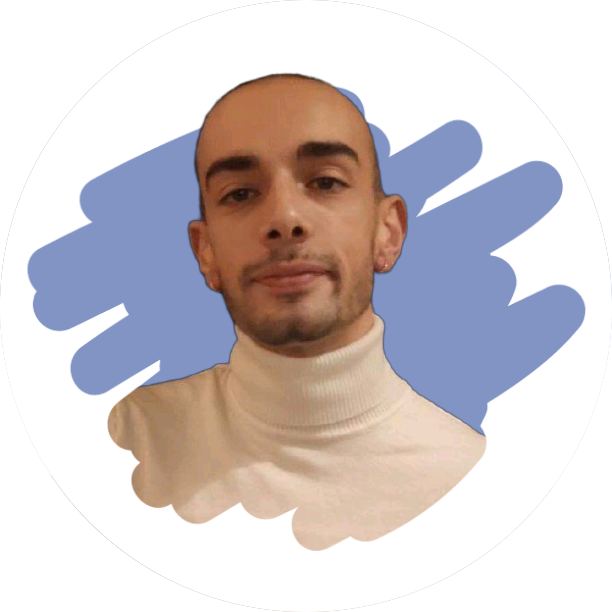
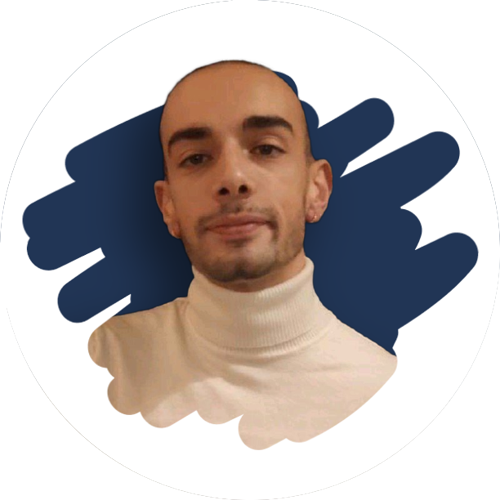
accueil completement aware

Changed region(s): [[0.54, 0.12, 0.96, 0.72], [0.03, 0.21, 0.39, 0.66]]

diff --git a/style/index.css b/style/index.css
@@ -1,11 +1,194 @@
-.div-img{
-    width:100%;
-    height:100%;
-    display:flex;
-    justify-content:center;
-    align-items:center;
 
+.div-img{
+    display:flex;
+    flex-direction: column;
+    align-items: center;
+    margin-top: 3rem;
 }
 .img-profil{
     width:60%;
+    background: rgba(255, 255, 255, 0.2);
+    border-radius: 50%;
+    box-shadow: 0 4px 30px rgba(0, 0, 0, 0.1);
+    backdrop-filter: blur(5px);
+    z-index: -99;
+}
+
+.text-presentation{
+    font-size: 1rem;
+    white-space: normal;
+    font-family: 'Josefin Sans', sans-serif;
+    text-align: center;
+    margin: 2rem 2rem;
+    letter-spacing: 2px;
+    background: rgba(255, 255, 255, 0.2);
+    border-radius: 20px;
+    box-shadow: 0 4px 30px rgba(0, 0, 0, 0.1);
+    backdrop-filter: blur(5px);
+    padding: 1rem 1.5rem;
+    font-size: 1.25rem;
+}
+
+.github{
+    position: fixed;
+    top: 10px;
+    right: 5px;
+    transition: .6s;
+    z-index: 99;
+}
+.github:hover{
+    fill: black;
+}
+.linkedin{
+    position: fixed;
+    top: 60px;
+    right: 5px;
+    transition: .6s;
+    z-index: 99;
+}
+.linkedin:hover{
+    fill: #0A66C2;
+}
+
+.title-hardskills{
+    font-family: 'Manrope', sans-serif;
+    text-align: center;
+    color: #213555;
+    letter-spacing: 2px;
+}
+
+.container {
+    display: grid;
+    width: 100%;
+    height: 100%;
+    grid-template-areas: "PHP Symfony MySQL"
+    "Bootstrap SCSS Twig"
+    "JavaScript GIT HTML";
+    grid-template-columns: 1fr 1fr 1fr;
+    grid-template-rows: 1fr 1fr 1fr;
+    gap: 1em;
+    padding: 1em 1em;
+    z-index: -99;
+  }
+  
+  
+  .PHP {
+    grid-area: PHP;
+    
+    
+  }
+  .Symfony {
+    grid-area: Symfony;
+   
+  }
+  .MySQL {
+    grid-area: MySQL;
+    
+  }
+  .Bootstrap {
+    grid-area: Bootstrap;
+    
+  }
+  .SCSS {
+    grid-area: SCSS;
+    
+  }
+  .Twig {
+    grid-area: Twig;
+    
+  }
+  .JavaScript {
+    grid-area: JavaScript;
+    
+  }
+  .GIT {
+    grid-area: GIT;
+    
+  }
+  .HTML {
+    grid-area: HTML;
+    
+  }
+
+  .glass{
+    background: rgba(255, 255, 255, 0.2);
+    border-radius: 10px;
+    box-shadow: 0 4px 30px rgba(0, 0, 0, 0.1);
+    backdrop-filter: blur(5px);
+    display: flex;
+    align-items: center;
+    justify-content: center;
+    z-index: -99;
+  }
+
+  .title-softskills{
+    font-family: 'Manrope', sans-serif;
+    text-align: center;
+    color: #213555;
+    letter-spacing: 2px;
+    margin-top: 5rem;
+  }
+
+  .softskills{
+    display: flex;
+    flex-direction: column;
+    text-align: center;
+    margin: 2rem 2rem 10rem 2rem;
+    gap: 2rem;
+    z-index: -1000;
+    
+  }
+  .soft{
+    font-family: 'Josefin Sans', sans-serif;
+    font-size: 1.25rem;
+    font-weight: 500;
+    letter-spacing: 2px;
+    background: rgba(255, 255, 255, 0.2);
+    border-radius: 20px;
+    box-shadow: 0 4px 30px rgba(0, 0, 0, 0.1);
+    backdrop-filter: blur(5px);
+    padding: 1.5rem 1.5rem;
+    
+  }
+  
+
+  /* MEDIA QUERIES */
+  @media screen and (min-width:1000px) {
+    .github{
+        top: 30px;
+        right: 10px;
+        width: 50px;
+        height: 50px;
+    }
+    .linkedin{
+        top: 30px;
+        right: 70px;
+        width: 50px;
+        height: 50px;
+    }
+    .main-title{
+        margin-top: 6rem;
+    }
+    .img-profil{
+        width: 20%;
+        margin-top: 5rem;
+    }
+    .div-img{
+        flex-direction: row;
+        margin: 4em 10rem;
+    }
+    .text-presentation{
+        padding: 2rem 2rem;
+    }
+    .container{
+        margin: auto;
+        padding: 1rem 10rem;
+    }
+    .softskills{
+        display: grid; /* Définit la rangée comme une grille */
+  grid-template-columns: repeat(4, 1fr); /* Crée 4 colonnes de largeur égale */
+  gap: 10px; /* Ajoute un espacement entre les objets */
+  align-items: stretch;
+    }
+    
 }

diff --git a/style/navbar.css b/style/navbar.css
@@ -10,10 +10,11 @@
     box-shadow: 0 4px 30px rgba(0, 0, 0, 0.1);
     backdrop-filter: blur(20px);
     font-family: 'Poppins', sans-serif;
+    z-index: 99;
 }
 @media screen and (min-width: 1000px) {
     .nav{
-        top: 0;
+        top: 20px;
         width: 50%;
         left: 25%;
         margin: 0;
@@ -37,8 +38,8 @@
 }
 
 .a2{
-    box-shadow: inset 0 0 0 0 #8294C4;
-    color:#8294C4 ;
+    box-shadow: inset 0 0 0 0 #213555;
+    color:#213555 ;
     border-radius: 30px;
 	padding: 1rem 1.5rem;
 	margin: 0 -1rem; 
@@ -49,5 +50,5 @@
 
 .a2:hover {
     color: #fff;
-    box-shadow: inset 200px 0 0 0 #8294C4;
+    box-shadow: inset 200px 0 0 0 #213555;
   }

diff --git a/style/style.css b/style/style.css
@@ -1,5 +1,3 @@
-@import url('https://fonts.googleapis.com/css2?family=Josefin+Slab&family=Poppins:wght@100;600&family=Sora:wght@200&display=swap');
-
-@import "index.css";
+@import url('https://fonts.googleapis.com/css2?family=Josefin+Sans:wght@300&family=Manrope&family=Poppins:wght@100;600&display=swap');@import "index.css";
 @import "navbar.css";
 @import "body.css";

diff --git a/style/body.css b/style/body.css
@@ -3,3 +3,9 @@
     padding: 0;
     box-sizing: border-box;
 }
+
+body{
+    background-image: url(/images/background.png);
+    background-repeat: no-repeat;
+    background-size: cover;
+}

diff --git a/templates/index.php b/templates/index.php
@@ -9,9 +9,82 @@
 </head>
 
 <body>
+    <a href="https://github.com/MaxenceCodeFR" target="_blank">
+        <svg class="github" xmlns="http://www.w3.org/2000/svg" width="40" height="40" fill="#7a97c5" class="bi bi-github" viewBox="0 0 16 16">
+            <path d="M8 0C3.58 0 0 3.58 0 8c0 3.54 2.29 6.53 5.47 7.59.4.07.55-.17.55-.38 0-.19-.01-.82-.01-1.49-2.01.37-2.53-.49-2.69-.94-.09-.23-.48-.94-.82-1.13-.28-.15-.68-.52-.01-.53.63-.01 1.08.58 1.23.82.72 1.21 1.87.87 2.33.66.07-.52.28-.87.51-1.07-1.78-.2-3.64-.89-3.64-3.95 0-.87.31-1.59.82-2.15-.08-.2-.36-1.02.08-2.12 0 0 .67-.21 2.2.82.64-.18 1.32-.27 2-.27.68 0 1.36.09 2 .27 1.53-1.04 2.2-.82 2.2-.82.44 1.1.16 1.92.08 2.12.51.56.82 1.27.82 2.15 0 3.07-1.87 3.75-3.65 3.95.29.25.54.73.54 1.48 0 1.07-.01 1.93-.01 2.2 0 .21.15.46.55.38A8.012 8.012 0 0 0 16 8c0-4.42-3.58-8-8-8z"/>
+        </svg>
+    </a>
+    <a href="https://www.linkedin.com/in/maxence-hattabi/" target="_blank">
+        <svg class="linkedin" xmlns="http://www.w3.org/2000/svg" width="40" height="40" fill="#213555" class="bi bi-linkedin" viewBox="0 0 16 16">
+            <path d="M0 1.146C0 .513.526 0 1.175 0h13.65C15.474 0 16 .513 16 1.146v13.708c0 .633-.526 1.146-1.175 1.146H1.175C.526 16 0 15.487 0 14.854V1.146zm4.943 12.248V6.169H2.542v7.225h2.401zm-1.2-8.212c.837 0 1.358-.554 1.358-1.248-.015-.709-.52-1.248-1.342-1.248-.822 0-1.359.54-1.359 1.248 0 .694.521 1.248 1.327 1.248h.016zm4.908 8.212V9.359c0-.216.016-.432.08-.586.173-.431.568-.878 1.232-.878.869 0 1.216.662 1.216 1.634v3.865h2.401V9.25c0-2.22-1.184-3.252-2.764-3.252-1.274 0-1.845.7-2.165 1.193v.025h-.016a5.54 5.54 0 0 1 .016-.025V6.169h-2.4c.03.678 0 7.225 0 7.225h2.4z"/>
+        </svg>
+    </a>
     <?php include "navbar.php" ?>
     <div class="div-img">
         <img class="img-profil" src="/images/profil.png" alt="">
-    </div>
+        <section class="text-presentation">
+            <p>
+            </p>
+        </section>
+    </div> 
     
+    <h2 class="title-hardskills"> Compétences </h2>
+<div class="container">
+    <div class="PHP glass"><svg xmlns="http://www.w3.org/2000/svg" height="70" width="110"><defs><clipPath id="A"><path d="M11.52 162C11.52 81.677 135.307 16.56 288 16.56S564.48 81.677 564.48 162 440.693 307.44 288 307.44 11.52 242.322 11.52 162"/></clipPath><radialGradient cx="0" cy="0" fx="0" fy="0" gradientTransform="matrix(363.05789,0,0,-363.05789,177.52002,256.30713)" gradientUnits="userSpaceOnUse" id="B" r="1" spreadMethod="pad"><stop offset="0" stop-color="#aeb2d5"/><stop offset=".3" stop-color="#aeb2d5"/><stop offset=".75" stop-color="#484c89"/><stop offset="1" stop-color="#484c89"/></radialGradient><clipPath id="C"><path d="M0 324h576V0H0v324z"/></clipPath><clipPath id="D"><path d="M0 324h576V0H0v324z"/></clipPath></defs><g transform="matrix(.164883 0 0 -.162632 11.737077 58.329876)"><g clip-path="url(#A)"><path d="M11.52 162C11.52 81.677 135.307 16.56 288 16.56S564.48 81.677 564.48 162 440.693 307.44 288 307.44 11.52 242.322 11.52 162" fill="url(#B)"/></g><g clip-path="url(#C)"><path d="M288 27.36c146.73 0 265.68 60.28 265.68 134.64S434.73 296.64 288 296.64 22.32 236.36 22.32 162 141.27 27.36 288 27.36" fill="#777bb3"/></g><g clip-path="url(#D)"><path d="M161.734 145.307c12.065 0 21.072 2.225 26.77 6.61 5.638 4.34 9.532 11.862 11.573 22.353 1.903 9.806 1.178 16.653-2.154 20.348-3.407 3.774-10.773 5.688-21.893 5.688h-19.28l-10.69-55h15.673zM98.67 77.557c-.895 0-1.745.4-2.314 1.092a3 3 0 0 0-.63 2.48l28.328 145.75a3 3 0 0 0 2.945 2.427h61.054c19.188 0 33.47-5.2 42.447-15.487 9.025-10.33 11.812-24.772 8.283-42.92-1.436-7.394-3.906-14.26-7.34-20.41-3.44-6.155-7.984-11.85-13.51-16.93-6.616-6.192-14.104-10.682-22.236-13.324-8.003-2.607-18.28-3.93-30.548-3.93h-24.722l-7.06-36.322a3 3 0 0 0-2.944-2.428H98.67z"/><path d="M159.224 197.307h16.808c13.42 0 18.083-2.945 19.667-4.7 2.628-2.914 3.124-9.058 1.435-17.767-1.898-9.75-5.416-16.663-10.458-20.545-5.162-3.974-13.554-5.988-24.94-5.988H149.7l9.523 49zm28.83 35H127a6 6 0 0 1-5.889-4.855L92.783 81.7a6 6 0 0 1 5.889-7.144h31.75a6 6 0 0 1 5.89 4.855l6.588 33.895h22.25c12.582 0 23.174 1.372 31.48 4.077 8.54 2.775 16.4 7.48 23.354 13.984 5.752 5.292 10.5 11.232 14.08 17.657s6.17 13.594 7.668 21.302c3.715 19.104.697 34.402-8.97 45.466-9.572 10.958-24.614 16.514-44.706 16.514m-45.633-90h19.313c12.8 0 22.336 2.41 28.6 7.234s10.492 12.875 12.688 24.157c2.1 10.832 1.144 18.476-2.87 22.93s-12.06 6.68-24.12 6.68h-21.754l-11.856-61m45.633 84c18.367 0 31.766-4.82 40.188-14.46s10.957-23.098 7.597-40.375c-1.383-7.117-3.722-13.624-7.015-19.52s-7.602-11.293-12.922-16.184c-6.34-5.933-13.383-10.16-21.133-12.68-7.75-2.525-17.62-3.782-29.62-3.782h-27.196l-7.53-38.75h-31.75L127 226.307h61.055" fill="#fff"/><path d="M311.583 116.307c-.896 0-1.745.4-2.314 1.092s-.802 1.6-.63 2.48l12.53 64.49c1.192 6.133.898 10.535-.827 12.395-1.056 1.137-4.228 3.044-13.607 3.044h-22.702l-15.755-81.072a3 3 0 0 0-2.945-2.428h-31.5a3 3 0 0 0-2.945 3.572l28.328 145.75a3 3 0 0 0 2.945 2.427h31.5a3 3 0 0 0 2.945-3.572l-6.836-35.178h24.422c18.605 0 31.22-3.28 38.57-10.028 7.5-6.884 9.827-17.89 6.947-32.72l-13.18-67.825a3 3 0 0 0-2.945-2.428h-32z"/><path d="M293.66 271.057h-31.5a6 6 0 0 1-5.89-4.855l-28.328-145.75a6 6 0 0 1 5.89-7.144h31.5a6 6 0 0 1 5.89 4.855l15.283 78.645h20.23c9.363 0 11.328-2 11.407-2.086.568-.61 1.315-3.44.082-9.78l-12.53-64.49a6 6 0 0 1 5.89-7.144h32a6 6 0 0 1 5.89 4.855l13.18 67.825c3.093 15.92.447 27.864-7.86 35.5-7.928 7.28-21.208 10.82-40.6 10.82h-20.784l6.143 31.605a6 6 0 0 1-5.89 7.145m0-6l-7.53-38.75h28.062c17.657 0 29.836-3.082 36.54-9.238s8.71-16.14 6.032-29.938l-13.18-67.824h-32l12.53 64.488c1.426 7.336.902 12.34-1.574 15.008s-7.746 4.004-15.805 4.004H281.56l-16.226-83.5h-31.5l28.328 145.75h31.5" fill="#fff"/><path d="M409.55 145.307c12.065 0 21.072 2.225 26.77 6.61 5.638 4.34 9.532 11.86 11.574 22.353 1.903 9.806 1.178 16.653-2.155 20.348-3.407 3.774-10.773 5.688-21.893 5.688h-19.28l-10.69-55h15.673zm-63.062-67.75c-.895 0-1.745.4-2.314 1.092a3 3 0 0 0-.631 2.48l28.328 145.75a3 3 0 0 0 2.946 2.427h61.053c19.19 0 33.47-5.2 42.448-15.487 9.025-10.33 11.81-24.77 8.283-42.92-1.438-7.394-3.907-14.26-7.342-20.41-3.44-6.155-7.984-11.85-13.51-16.93-6.616-6.192-14.104-10.682-22.236-13.324-8.003-2.607-18.28-3.93-30.548-3.93H388.24l-7.057-36.322a3 3 0 0 0-2.946-2.428h-31.75z"/><path d="M407.04 197.307h16.808c13.42 0 18.083-2.945 19.667-4.7 2.63-2.914 3.125-9.058 1.435-17.766-1.898-9.75-5.417-16.664-10.458-20.546-5.162-3.974-13.554-5.988-24.94-5.988h-12.033l9.522 49zm28.83 35h-61.054a6 6 0 0 1-5.889-4.855L340.6 81.7a6 6 0 0 1 5.889-7.144h31.75a6 6 0 0 1 5.89 4.855l6.587 33.895h22.25c12.582 0 23.174 1.372 31.48 4.077 8.54 2.775 16.4 7.48 23.356 13.986 5.752 5.29 10.488 11.23 14.078 17.655s6.17 13.594 7.668 21.302c3.715 19.105.697 34.403-8.97 45.467-9.572 10.957-24.613 16.513-44.706 16.513m-45.632-90h19.312c12.8 0 22.336 2.41 28.6 7.234s10.492 12.875 12.688 24.157c2.102 10.832 1.145 18.476-2.87 22.93s-12.06 6.68-24.12 6.68h-21.754l-11.855-61m45.632 84c18.367 0 31.766-4.82 40.188-14.46s10.957-23.098 7.597-40.375c-1.383-7.117-3.722-13.624-7.015-19.52s-7.602-11.293-12.922-16.184c-6.34-5.933-13.383-10.16-21.133-12.68-7.75-2.525-17.62-3.782-29.62-3.782h-27.196l-7.53-38.75h-31.75l28.328 145.75h61.054" fill="#fff"/></g></g></svg></div>
+    <div class="Symfony glass"><svg xmlns="http://www.w3.org/2000/svg" width="65" height="70"><g transform="matrix(2.409464 0 0 2.409464 -17.555509 -34.096333)"><circle r="13.281" cy="27.432" cx="20.567" fill="#1a171b"/><path d="M26.373 19.065c-1.35.047-2.527.79-3.403 1.82-.97 1.128-1.616 2.465-2.082 3.83-.832-.682-1.474-1.565-2.8-1.95a3.43 3.43 0 0 0-3.113.569c-.472.353-.798.886-.952 1.387-.4 1.303.42 2.462.794 2.878l.816.874c.168.17.573.62.375 1.26-.214.697-1.055 1.15-1.917.883-.385-.117-.938-.404-.814-.808.05-.165.17-.29.233-.432.058-.123.086-.215.104-.27.158-.514-.058-1.183-.608-1.353-.514-.158-1.04-.033-1.244.63-.23.752.128 2.116 2.055 2.7 2.258.694 4.167-.536 4.438-2.14.17-1.004-.283-1.75-1.113-2.7l-.677-.748c-.4-.4-.55-1.108-.126-1.644.358-.453.868-.646 1.703-.42 1.22.33 1.762 1.177 2.67 1.86-.374 1.228-.62 2.46-.84 3.566l-.135.824c-.648 3.4-1.143 5.267-2.43 6.338-.26.184-.63.46-1.188.48-.293.01-.387-.192-.39-.28-.007-.205.166-.3.28-.392.172-.094.432-.25.414-.747-.02-.588-.506-1.1-1.21-1.075-.528.018-1.332.515-1.302 1.424.032.94.907 1.643 2.227 1.598.705-.024 2.28-.31 3.833-2.157 1.807-2.116 2.312-4.54 2.693-6.316l.424-2.344.762.054c2.25.047 3.376-1.118 3.393-1.966.01-.513-.337-1.018-.824-1.007-.35.01-.787.242-.892.724-.103.473.716.9.076 1.314-.455.294-1.27.502-2.418.333l.21-1.154c.426-2.188.95-4.88 2.945-4.944.145-.007.677.007.69.358.004.117-.025.147-.163.416-.14.2-.193.388-.186.593.02.56.444.926 1.058.904.823-.027 1.06-.827 1.046-1.24-.033-.966-1.052-1.577-2.4-1.532z" fill="#fff"/></g></svg></div>
+    <div class="MySQL glass"><svg xmlns="http://www.w3.org/2000/svg" width="100" height="100" viewBox="0 0 9.252 4.626"><g transform="matrix(.037376 0 0 .037376 1.069994 -1.319339)" fill-rule="evenodd"><path d="M8.504 128.215h5.8v-22.977l9.058 20.033c1.026 2.408 2.5 3.3 5.354 3.3s4.24-.893 5.3-3.3l9.013-20.033v22.977h5.845v-22.977c0-2.23-.893-3.303-2.767-3.883-4.417-1.338-7.362-.178-8.7 2.81l-8.878 19.81-8.567-19.81c-1.294-2.988-4.284-4.148-8.745-2.81-1.83.58-2.722 1.652-2.722 3.883l-.001 22.977zm45.198-18.694h5.845v12.627c-.044.713.223 2.32 3.4 2.363 1.65.045 12.582 0 12.67 0v-15.08h5.845v20.658c0 5.086-6.3 6.2-9.236 6.246h-18.38v-3.88h18.427c3.748-.402 3.302-2.275 3.302-2.9v-1.518h-12.36c-5.756-.045-9.46-2.588-9.503-5.488v-13.03zm125.374-14.635c-3.568-.09-6.336.268-8.656 1.25-.668.27-1.74.27-1.828 1.116.357.355.4.936.713 1.428.535.893 1.473 2.096 2.32 2.72.938.715 1.875 1.428 2.855 2.053 1.74 1.07 3.703 1.695 5.398 2.766.982.625 1.963 1.428 2.945 2.098.5.357.803.938 1.428 1.16v-.135c-.312-.4-.402-.98-.713-1.428-.447-.445-.893-.848-1.34-1.293-1.293-1.74-2.9-3.258-4.64-4.506-1.428-.982-4.55-2.32-5.13-3.97l-.088-.09c.98-.09 2.14-.447 3.078-.715 1.518-.4 2.9-.312 4.46-.713.715-.18 1.428-.402 2.143-.625v-.4c-.803-.803-1.383-1.874-2.23-2.632-2.275-1.963-4.775-3.882-7.363-5.488-1.383-.892-3.168-1.473-4.64-2.23-.537-.268-1.428-.402-1.74-.848-.805-.98-1.25-2.275-1.83-3.436-1.293-2.454-2.543-5.175-3.658-7.763-.803-1.74-1.295-3.48-2.275-5.086-4.596-7.585-9.594-12.18-17.268-16.687-1.65-.937-3.613-1.34-5.7-1.83l-3.346-.18c-.715-.312-1.428-1.16-2.053-1.562-2.543-1.606-9.102-5.086-10.977-.49-1.205 2.9 1.785 5.755 2.8 7.228.76 1.026 1.74 2.186 2.277 3.346.3.758.4 1.562.713 2.365.713 1.963 1.383 4.15 2.32 5.98.5.937 1.025 1.92 1.65 2.767.357.49.982.714 1.115 1.517-.625.893-.668 2.23-1.025 3.347-1.607 5.042-.982 11.288 1.293 14.99.715 1.115 2.4 3.57 4.686 2.632 2.008-.803 1.56-3.346 2.14-5.577.135-.535.045-.892.312-1.25v.09l1.83 3.703c1.383 2.186 3.793 4.462 5.8 5.98 1.07.803 1.918 2.187 3.256 2.677v-.135h-.088c-.268-.4-.67-.58-1.027-.892-.803-.803-1.695-1.785-2.32-2.677-1.873-2.498-3.523-5.265-4.996-8.12-.715-1.383-1.34-2.9-1.918-4.283-.27-.536-.27-1.34-.715-1.606-.67.98-1.65 1.83-2.143 3.034-.848 1.918-.936 4.283-1.248 6.737-.18.045-.1 0-.18.09-1.426-.356-1.918-1.83-2.453-3.078-1.338-3.168-1.562-8.254-.402-11.913.312-.937 1.652-3.882 1.117-4.774-.27-.848-1.16-1.338-1.652-2.008-.58-.848-1.203-1.918-1.605-2.855-1.07-2.5-1.605-5.265-2.766-7.764-.537-1.16-1.473-2.365-2.232-3.435-.848-1.205-1.783-2.053-2.453-3.48-.223-.49-.535-1.294-.178-1.83.088-.357.268-.49.623-.58.58-.49 2.232.134 2.812.4 1.65.67 3.033 1.294 4.416 2.23.625.446 1.295 1.294 2.098 1.518h.938c1.428.312 3.033.09 4.37.49 2.365.76 4.506 1.874 6.426 3.08 5.844 3.703 10.664 8.968 13.92 15.26.535 1.026.758 1.963 1.25 3.034.938 2.187 2.098 4.417 3.033 6.56.938 2.097 1.83 4.24 3.168 5.98.67.937 3.346 1.427 4.55 1.918.893.4 2.275.76 3.08 1.25 1.516.937 3.033 2.008 4.46 3.034.713.534 2.945 1.65 3.078 2.54zm-45.5-38.772a7.09 7.09 0 0 0-1.828.223v.09h.088c.357.714.982 1.205 1.428 1.83l1.027 2.142.088-.09c.625-.446.938-1.16.938-2.23-.268-.312-.312-.625-.535-.937-.268-.446-.848-.67-1.206-1.026z" fill="#00678c"/><path d="M85.916 128.215h16.776c1.963 0 3.838-.4 5.354-1.115 2.543-1.16 3.748-2.72 3.748-4.773v-4.283c0-1.65-1.383-3.213-4.148-4.283-1.428-.535-3.213-.848-4.953-.848h-7.05c-2.365 0-3.48-.715-3.793-2.275-.044-.178-.044-.357-.044-.535v-2.633c0-.135 0-.312.044-.49.312-1.205.937-1.518 3-1.74h17.177v-3.883h-16.33c-2.365 0-3.614.135-4.73.492-3.436 1.07-4.953 2.766-4.953 5.754v3.393c0 2.63 2.945 4.863 7.942 5.398.535.045 1.115.045 1.695.045h6.024c.223 0 .445 0 .623.045 1.83.178 2.633.49 3.168 1.158.357.357.447.67.447 1.072v3.39c0 .4-.268.938-.803 1.383s-1.385.758-2.5.803c-.223 0-.355.045-.58.045H85.916zm62.195-6.736c0 3.97 3 6.2 8.97 6.648.58.045 1.115.088 1.695.088h15.17v-3.88h-15.303c-3.393 0-4.686-.848-4.686-2.9v-20.078H148.1v20.123zm-32.615.177v-13.83c0-3.525 2.498-5.668 7.363-6.336.535-.045 1.07-.09 1.56-.09h11.064c.58 0 1.072.045 1.652.09 4.863.668 7.316 2.81 7.316 6.336v13.83c0 2.855-1.025 4.373-3.436 5.4l5.71 5.174h-6.736l-4.64-4.193-4.686.268h-6.246a13.66 13.66 0 0 1-3.391-.445c-3.7-1.028-5.53-2.99-5.53-6.204zm6.29-.31c0 .178.1.355.135.58.312 1.605 1.828 2.498 4.148 2.498h5.266l-4.818-4.373h6.736l4.238 3.838c.805-.447 1.295-1.072 1.473-1.875.045-.178.045-.4.045-.58v-13.252c0-.178 0-.355-.045-.535-.312-1.516-1.828-2.363-4.104-2.363h-8.79c-2.588 0-4.283 1.115-4.283 2.898z" fill="#ce8b2c"/></g></svg></div>
+    <div class="Bootstrap glass"><svg height="100" viewBox="0 0 512 407.864" width="70" xmlns="http://www.w3.org/2000/svg"><path d="m106.344 0c-29.214 0-50.831 25.57-49.863 53.3.929 26.641-.278 61.145-8.964 89.283-8.717 28.217-23.449 46.098-47.517 48.393v25.912c24.068 2.3 38.8 20.172 47.516 48.393 8.687 28.138 9.893 62.642 8.964 89.283-.968 27.726 20.649 53.3 49.868 53.3h299.347c29.214 0 50.827-25.57 49.859-53.3-.929-26.641.278-61.145 8.964-89.283 8.717-28.221 23.413-46.1 47.482-48.393v-25.912c-24.068-2.3-38.764-20.172-47.482-48.393-8.687-28.134-9.893-62.642-8.964-89.283.968-27.726-20.645-53.3-49.859-53.3h-299.355zm240.775 251.067c0 38.183-28.481 61.34-75.746 61.34h-80.458a8.678 8.678 0 0 1 -8.678-8.678v-199.593a8.678 8.678 0 0 1 8.678-8.678h80c39.411 0 65.276 21.348 65.276 54.124 0 23.005-17.4 43.6-39.567 47.208v1.2c30.176 3.31 50.495 24.21 50.495 53.077zm-84.519-128.1h-45.876v64.8h38.639c29.87 0 46.34-12.028 46.34-33.527-.003-20.148-14.163-31.273-39.103-31.273zm-45.876 90.511v71.411h47.564c31.1 0 47.573-12.479 47.573-35.931s-16.935-35.484-49.573-35.484h-45.564z" fill="#7952b3" fill-rule="evenodd"/></svg></div>
+    <div class="SCSS glass"><svg xmlns="http://www.w3.org/2000/svg" width="70" height="100" viewBox="0 0 512 384"><path fill="#CF649A" d="M440.6 220.6c-17.9.101-33.4 4.4-46.4 10.801-4.8-9.5-9.6-17.801-10.399-24-.9-7.2-2-11.601-.9-20.2C384 178.6 389 166.4 389 165.4c-.101-.9-1.101-5.3-11.4-5.4s-19.2 2-20.2 4.7-3 8.9-4.3 15.3c-1.8 9.4-20.6 42.7-31.3 60.2-3.5-6.8-6.5-12.8-7.101-17.601-.899-7.199-2-11.6-.899-20.199 1.1-8.601 6.1-20.8 6.1-21.8-.1-.9-1.1-5.3-11.399-5.4-10.301-.1-19.2 2-20.2 4.7s-2.1 9.1-4.3 15.3C281.9 201.4 256.9 257 250.4 271.5c-3.3 7.4-6.199 13.3-8.3 17.3-2.1 4-.1.3-.3.7-1.8 3.4-2.8 5.3-2.8 5.3v.101c-1.4 2.5-2.9 4.899-3.601 4.899-.5 0-1.5-6.7.2-15.899 3.7-19.301 12.7-49.4 12.601-50.5 0-.5 1.699-5.801-5.801-8.5-7.3-2.7-9.899 1.8-10.5 1.8-.6 0-1.1 1.6-1.1 1.6s8.1-33.899-15.5-33.899c-14.8 0-35.2 16.1-45.3 30.8-6.4 3.5-20 10.899-34.4 18.8-5.5 3-11.2 6.2-16.6 9.1L117.9 251.9c-28.6-30.5-81.5-52.1-79.3-93.1.8-14.9 6-54.2 101.601-101.8 78.3-39 141-28.3 151.899-4.5 15.5 34-33.5 97.2-114.899 106.3-31 3.5-47.301-8.5-51.4-13-4.3-4.7-4.9-4.9-6.5-4-2.6 1.4-1 5.6 0 8.1 2.4 6.3 12.4 17.5 29.4 23.1 14.899 4.9 51.3 7.6 95.3-9.4 49.3-19.1 87.8-72.1 76.5-116.4-11.5-45.1-86.3-59.9-157-34.8C121.4 27.4 75.8 50.8 43 81.5 4 117.9-2.2 149.7.4 162.9c9.101 47.1 74 77.8 100 100.5-1.3.699-2.5 1.399-3.6 2-13 6.399-62.5 32.3-74.9 59.699-14 31 2.2 53.301 13 56.301 33.4 9.3 67.6-7.4 86.1-34.9 18.399-27.5 16.2-63.2 7.7-79.5l-.301-.6 10.2-6c6.601-3.9 13.101-7.5 18.8-10.601-3.199 8.7-5.5 19-6.699 34-1.4 17.601 5.8 40.4 15.3 49.4 4.2 3.899 9.2 4 12.3 4 11 0 16-9.101 21.5-20 6.8-13.3 12.8-28.7 12.8-28.7s-7.5 41.7 13 41.7c7.5 0 15-9.7 18.4-14.7v.1s.2-.3.6-1a36.13 36.13 0 0 0 1.2-1.899v-.2c3-5.2 9.7-17.1 19.7-36.8 12.899-25.4 25.3-57.2 25.3-57.2s1.2 7.8 4.9 20.6c2.199 7.601 6.999 15.9 10.699 24-3 4.2-4.8 6.601-4.8 6.601l.1.1c-2.399 3.2-5.1 6.601-7.899 10-10.2 12.2-22.4 26.101-24 30.101-1.9 4.699-1.5 8.199 2.2 11 2.7 2 7.5 2.399 12.6 2 9.2-.601 15.6-2.9 18.8-4.301 5-1.8 10.7-4.5 16.2-8.5 10-7.399 16.1-17.899 15.5-31.899-.3-7.7-2.8-15.3-5.9-22.5.9-1.3 1.801-2.601 2.7-4 15.8-23.101 28-48.5 28-48.5s1.2 7.8 4.9 20.6c1.899 6.5 5.7 13.601 9.1 20.601-14.8 12.1-24.1 26.1-27.3 35.3-5.9 17-1.3 24.7 7.4 26.5 3.899.8 9.5-1 13.699-2.8 5.2-1.7 11.5-4.601 17.301-8.9 10-7.4 19.6-17.7 19.1-31.6-.3-6.4-2-12.7-4.3-18.7 12.6-5.2 28.899-8.2 49.6-5.7 44.5 5.2 53.3 33 51.601 44.6-1.7 11.601-11 18-14.101 20-3.1 1.9-4.1 2.601-3.8 4 .4 2.101 1.8 2 4.5 1.601 3.7-.601 23.4-9.5 24.2-30.899 1.2-27.504-24.9-57.504-71.2-57.205zM97.4 336.3c-14.7 16.1-35.4 22.2-44.2 17-9.5-5.5-5.801-29.2 12.3-46.3 11-10.4 25.3-20 34.7-25.9 2.1-1.3 5.3-3.199 9.1-5.5.6-.399 1-.6 1-.6.7-.4 1.5-.9 2.3-1.4 6.7 24.4.3 45.8-15.2 62.7zm107.5-73.1c-5.1 12.5-15.9 44.6-22.4 42.8-5.601-1.5-9-25.8-1.101-49.8 4-12.101 12.5-26.5 17.5-32.101 8.101-9 16.9-12 19.101-8.3 2.6 4.801-9.9 39.601-13.1 47.401zm88.7 42.4c-2.2 1.101-4.2 1.9-5.1 1.301-.7-.4.899-1.9.899-1.9s11.1-11.9 15.5-17.4c2.5-3.199 5.5-6.899 8.7-11.1v1.2C313.6 292.1 299.8 301.7 293.6 305.6zm68.399-15.6c-1.6-1.2-1.399-4.9 4-16.5 2.101-4.6 6.9-12.3 15.2-19.6 1 3 1.601 5.899 1.5 8.6-.099 18-12.899 24.7-20.7 27.5z"/></svg></div>
[1 lines of base64/hex data omitted]
+    <div class="JavaScript glass"><svg xmlns="http://www.w3.org/2000/svg" width="70" height="100" viewBox="0 0 1052 1052"><path fill="#f0db4f" d="M0 0h1052v1052H0z"/><path d="M965.9 801.1c-7.7-48-39-88.3-131.7-125.9-32.2-14.8-68.1-25.399-78.8-49.8-3.8-14.2-4.3-22.2-1.9-30.8 6.9-27.9 40.2-36.6 66.6-28.6 17 5.7 33.1 18.801 42.8 39.7 45.4-29.399 45.3-29.2 77-49.399-11.6-18-17.8-26.301-25.4-34-27.3-30.5-64.5-46.2-124-45-10.3 1.3-20.699 2.699-31 4-29.699 7.5-58 23.1-74.6 44-49.8 56.5-35.6 155.399 25 196.1 59.7 44.8 147.4 55 158.6 96.9 10.9 51.3-37.699 67.899-86 62-35.6-7.4-55.399-25.5-76.8-58.4-39.399 22.8-39.399 22.8-79.899 46.1 9.6 21 19.699 30.5 35.8 48.7 76.2 77.3 266.899 73.5 301.1-43.5 1.399-4.001 10.6-30.801 3.199-72.101zm-394-317.6h-98.4c0 85-.399 169.4-.399 254.4 0 54.1 2.8 103.7-6 118.9-14.4 29.899-51.7 26.2-68.7 20.399-17.3-8.5-26.1-20.6-36.3-37.699-2.8-4.9-4.9-8.7-5.601-9-26.699 16.3-53.3 32.699-80 49 13.301 27.3 32.9 51 58 66.399 37.5 22.5 87.9 29.4 140.601 17.3 34.3-10 63.899-30.699 79.399-62.199 22.4-41.3 17.6-91.3 17.4-146.6.5-90.2 0-180.4 0-270.9z" fill="#323330"/></svg></div>
+    <div class="GIT glass"><svg width="70" height="70" viewBox="0 0 256 256" xmlns="http://www.w3.org/2000/svg" preserveAspectRatio="xMinYMin meet"><path d="M251.172 116.594L139.4 4.828c-6.433-6.437-16.873-6.437-23.314 0l-23.21 23.21 29.443 29.443c6.842-2.312 14.688-.761 20.142 4.693 5.48 5.489 7.02 13.402 4.652 20.266l28.375 28.376c6.865-2.365 14.786-.835 20.269 4.657 7.663 7.66 7.663 20.075 0 27.74-7.665 7.666-20.08 7.666-27.749 0-5.764-5.77-7.188-14.235-4.27-21.336l-26.462-26.462-.003 69.637a19.82 19.82 0 0 1 5.188 3.71c7.663 7.66 7.663 20.076 0 27.747-7.665 7.662-20.086 7.662-27.74 0-7.663-7.671-7.663-20.086 0-27.746a19.654 19.654 0 0 1 6.421-4.281V94.196a19.378 19.378 0 0 1-6.421-4.281c-5.806-5.798-7.202-14.317-4.227-21.446L81.47 39.442l-76.64 76.635c-6.44 6.443-6.44 16.884 0 23.322l111.774 111.768c6.435 6.438 16.873 6.438 23.316 0l111.251-111.249c6.438-6.44 6.438-16.887 0-23.324" fill="#DE4C36"/></svg></div>
+    <div class="HTML glass"><svg fill="none" height="100" width="60" xmlns="http://www.w3.org/2000/svg" viewBox="0 0 124 141.53199999999998"><path d="M10.383 126.894L0 0l124 .255-10.979 126.639-50.553 14.638z" fill="#e34f26"/><path d="M62.468 129.277V12.085l51.064.17-9.106 104.851z" fill="#ef652a"/><path d="M99.49 41.362l1.446-15.49H22.383l4.34 47.49h54.213L78.81 93.617l-17.362 4.68-17.617-5.106-.936-12.085H27.319l2.128 24.681 32 8.936 32.255-8.936 4.34-48.17H41.107L39.49 41.362z" fill="#fff"/></svg></div>
+</div>
+
+    <h2 class="title-softskills"> Compétences Comportementales</h2>
+    <div class="softskills">
+        <div class="passion soft">
+            <svg xmlns="http://www.w3.org/2000/svg" width="32" height="32" fill="#9c0000" class="bi bi-heart-fill" viewBox="0 0 16 16">
+                <path fill-rule="evenodd" d="M8 1.314C12.438-3.248 23.534 4.735 8 15-7.534 4.736 3.562-3.248 8 1.314z"/>
+            </svg>
+            <h4>Passion</h4>
+            <p>Il faut être enthousiaste dans son metier pour y exceller.</p>
+            <cite>- Denis Diderot</cite>
+        </div>
+        <div class="team soft">
+            <svg xmlns="http://www.w3.org/2000/svg" width="32" height="32" fill="#6fa8dc" class="bi bi-people-fill" viewBox="0 0 16 16">
+                <path d="M7 14s-1 0-1-1 1-4 5-4 5 3 5 4-1 1-1 1H7Zm4-6a3 3 0 1 0 0-6 3 3 0 0 0 0 6Zm-5.784 6A2.238 2.238 0 0 1 5 13c0-1.355.68-2.75 1.936-3.72A6.325 6.325 0 0 0 5 9c-4 0-5 3-5 4s1 1 1 1h4.216ZM4.5 8a2.5 2.5 0 1 0 0-5 2.5 2.5 0 0 0 0 5Z"/>
+            </svg>
+            <h4>Travail d'Equipe</h4>
+            <p>La réussite appartient à tout le monde. C'est au travail d'équipe qu'en revient le mérite.</p>
+            <cite>- Franck Picard</cite>
+        </div>
+        <div class="empathy soft">
+            <svg xmlns="http://www.w3.org/2000/svg" width="32" height="32" fill="#b789c6" class="bi bi-person-heart" viewBox="0 0 16 16">
+                <path d="M9 5a3 3 0 1 1-6 0 3 3 0 0 1 6 0Zm-9 8c0 1 1 1 1 1h10s1 0 1-1-1-4-6-4-6 3-6 4Zm13.5-8.09c1.387-1.425 4.855 1.07 0 4.277-4.854-3.207-1.387-5.702 0-4.276Z"/>
+            </svg>
+            <h4>Empathie</h4>
+            <p>L'empathie c'est de tendre la main à celui qui est dans le trou, ce n'est pas sauter dedans pour l'aider à remonter.</p>
+            <cite>- Agnes Ledig</cite>
+        </div>
+        <div class="curiosity soft">
+            <svg xmlns="http://www.w3.org/2000/svg" width="32" height="32" fill="#b6d7a8" class="bi bi-chat-fill" viewBox="0 0 16 16">
+                <path d="M8 15c4.418 0 8-3.134 8-7s-3.582-7-8-7-8 3.134-8 7c0 1.76.743 3.37 1.97 4.6-.097 1.016-.417 2.13-.771 2.966-.079.186.074.394.273.362 2.256-.37 3.597-.938 4.18-1.234A9.06 9.06 0 0 0 8 15z"/>
+            </svg>
+            <h4>Curiosité</h4>
+            <p>On ne force pas la curiosité, on l'éveille</p>
+            <cite>- Daniel Pennac</cite>
+        </div>
+    </div>
+
+
+<script src="https://unpkg.com/typed.js@2.0.16/dist/typed.umd.js"></script>
+<script>
+    var typed = new Typed('.text-presentation', {
+      strings: ['Après plus de 4 ans d\'expérience en restauration, je décide de revenir aux sources : le développement web. Attiré par ce domaine depuis toujours, je suis en quête de nouveaux défis. Mon but : travailler en équipe sur des projets qui ont du sens, contribuer à la croissance de l\'entreprise, satisfaire les nouveaux, comme les anciens clients et prendre en compétences. Naturellement attiré au premier abord par le back-end, j\'ai rapidement pris goût au front-end et à l\'UX/UI design.'],
+      typeSpeed: 20,
+      loop: false,
+      showCursor: false,
+    });
+  </script>
 </body>
